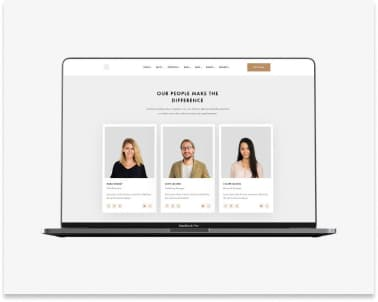
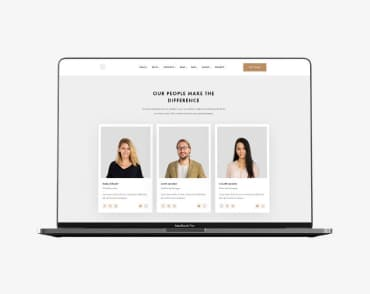
корректировка дз

diff --git a/css/styles.css b/css/styles.css
@@ -23,6 +23,7 @@ h6 {
   margin: 0;
 }
 ul {
+  list-style: none;
   margin: 0;
   padding: 0;
 }
@@ -42,6 +43,7 @@ button {
 img {
   display: block;
   width: 100%;
+  height: auto;
 }
 
 body {
@@ -50,9 +52,6 @@ body {
   background-color: #ffffff;
 }
 
-.list {
-  list-style: none;
-}
 .link {
   text-decoration: none;
 }
@@ -91,10 +90,12 @@ body {
 .header-contact-item:not(:last-child) {
   margin-right: 50px;
 }
+header {
+  border-bottom: 1px solid #ececec;
+}
 .header-container {
   display: flex;
   align-items: center;
-  border: 1px solid #ececec;
 }
 .header-item:not(:last-child) {
   margin-right: 50px;
@@ -131,11 +132,9 @@ body {
   color: var(--accent-color);
 }
 /* стилизация секции hero */
-.hero-container {
+.hero-section {
   padding-top: 200px;
   padding-bottom: 200px;
-}
-.hero-section {
   background-color: var(--second-bg-color);
 }
 .hero-title {
@@ -167,12 +166,15 @@ body {
   background: var(--accent-color);
   box-shadow: 0px 4px 4px rgba(0, 0, 0, 0.15);
   border-radius: 4px;
+  border: transparent;
 }
 /* преимущества */
 .preference {
   display: flex;
 }
-
+.preference-title-hide {
+  display: none;
+}
 .preference-item:not(:last-child) {
   margin-right: 30px;
 }
@@ -196,6 +198,9 @@ body {
 /* чем мы занимаемся */
 .work-list {
   display: flex;
+}
+.work-section {
+  padding-top: 0;
 }
 .work-item:not(:last-child) {
   margin-right: 30px;
@@ -266,7 +271,7 @@ body {
   background-color: var(--second-bg-color);
 }
 .logo-text-footer {
-  display: flex;
+  display: block;
   margin-bottom: 20px;
 }
 .second-text-logo-footer {
@@ -279,7 +284,6 @@ body {
 }
 .location {
   margin-bottom: 9px;
-  display: flex;
   font-style: normal;
   font-weight: normal;
   font-size: 14px;
@@ -299,33 +303,32 @@ body {
 .footer-contact-link:focus {
   color: var(--accent-color);
 }
-.footer-contact-link-mail {
+.adress-item {
   margin-bottom: 9px;
-  display: flex;
 }
 /* портфолио */
-.portfolio-section {
-  padding-top: 94px;
-  padding-bottom: 94px;
-}
 .filter {
   display: flex;
   justify-content: center;
-  margin-bottom: 34px;
+  margin-bottom: 50px;
 }
-
+.menu-title {
+  display: none;
+}
 .filter-button {
-  margin-right: 9px;
-
+  border: transparent;
+  padding: 6px 22px;
   font-weight: 500;
   font-size: 16px;
   line-height: 1.63;
   text-align: center;
   letter-spacing: 0.03em;
-  border: 1px solid #000000;
   box-sizing: border-box;
   border-radius: 4px;
   background-color: var(--staff-bg-color);
+}
+.filter-item {
+  margin-right: 9px;
 }
 .filter-button:hover,
 .filter-button:focus {
@@ -370,7 +373,5 @@ body {
   box-sizing: border-box;
 }
 .portfolio-section-text {
-  padding-top: 20px;
-  padding-bottom: 20px;
-  padding-left: 24px;
+  padding: 20px 24px;
 }

diff --git a/index.html b/index.html
@@ -50,15 +50,15 @@ font-family: 'Roboto', sans-serif;-->
 <main>
     <!-- hero section -->
 <section class="hero-section">
-<div class="container hero-container ">
+<div class="container">
 <h1 class="hero-title">Эффективные решения для вашего бизнеса</h1>   
 <button class="button-main"  type="button">Заказать услугу</button>
 </div>
 </section>
     <!-- main sections -->
-<section>
-    <div class="container section">
-    <h2 hidden>преимущества</h2>
+<section class="section">
+    <div class="container ">
+    <h2 class="preference-title-hide">преимущества</h2>
     <ul class="preference list">
         <li class="preference-item">
             <h3 class="title preference-title ">Внимание к деталям</h3>
@@ -77,10 +77,10 @@ font-family: 'Roboto', sans-serif;-->
     </ul>
     </div>
 </section>
-<section class="section">
+<section class="section work-section">
     <div class="container">
     <h2 class="work-title">Чем мы занимаемся</h2>
-    <ul class="list work-list">
+    <ul class="work-list">
         <li class="work-item">
             <img src="./images/what-we-do-img1.jpg" alt="неписание кода" width="370"
             height="294">
@@ -97,7 +97,7 @@ font-family: 'Roboto', sans-serif;-->
 <section class="staff section">
     <div class="container">
     <h2 class="staff-title">Наша команда</h2>
-    <ul class="list staff-list">
+    <ul class="staff-list">
         <li class="staff-item">
             <img src="./images/our-staff-img1.jpg" alt="первый сотрудник" width="270" height="260">
             <div class="staff-item-bottom">
@@ -138,14 +138,14 @@ font-family: 'Roboto', sans-serif;-->
     <a class="logo-text-footer link" href=""><span class="firs-text-logo">Web</span><span
             class="second-text-logo-footer">Studio</span></a>
     <address>
-        <ul class="list">
-            <li>
+        <ul>
+            <li class="adress-item">
                 <a class="location link" href="https://goo.gl/maps/d4MLWuVxxV9sgo2M7"
                 target="_blank"
                 rel="noopener noreferrer">г. Киев, пр-т Леси Украинки, 26</a>
-            </li>
-            <li>
-                <a class="link footer-contact-link footer-contact-link-mail" href="mailto:info@devstudio.com">info@devstudio.com</a>
+            </li >
+            <li class="adress-item">
+                <a class="link footer-contact-link" href="mailto:info@devstudio.com">info@devstudio.com</a>
             </li>
             <li>
                 <a class="link footer-contact-link" href="tel:+380961111111">+38 096 111 11 11</a>

diff --git a/portfolio.html b/portfolio.html
@@ -54,20 +54,20 @@ font-family: 'Roboto', sans-serif;-->
 
 <main>
     <!--навигация по портфолио-->
-    <section class="portfolio-section">
+    <section class="section">
         <div class="container">
-        <h1 hidden> menu portfolio </h1>
+        <h1 class="menu-title"> menu portfolio </h1>
         <ul class="filter list">
-            <li>
+            <li class="filter-item">
                 <button class="filter-button current" type="button">Все</button>
             </li>
-            <li>
+            <li class="filter-item">
                 <button class="filter-button " type="button">Веб-сайты</button>
             </li>
-            <li>
+            <li class="filter-item">
                 <button class="filter-button " type="button">Приложения</button>
             </li>
-            <li>
+            <li class="filter-item">
                 <button class="filter-button " type="button">Дизайн</button>
             </li>
             <li>
